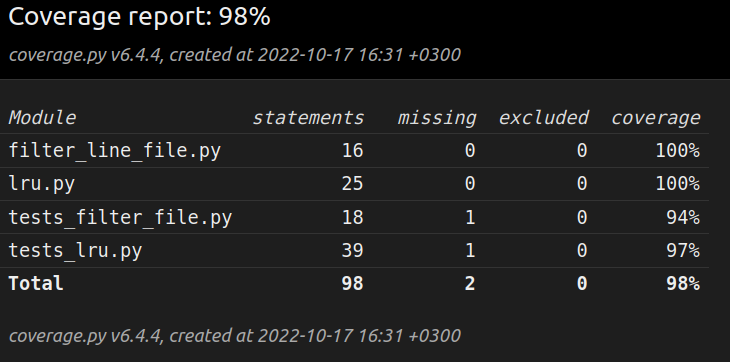
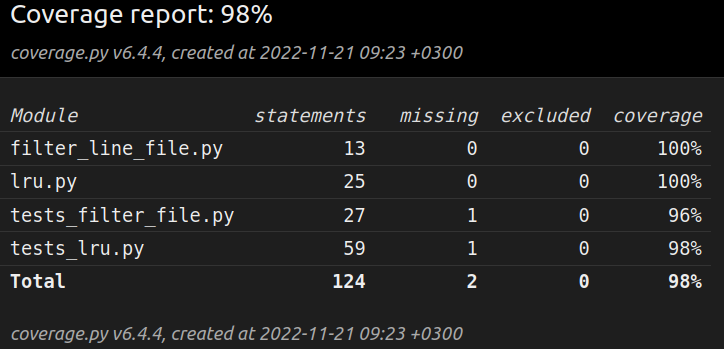
Update HW5

diff --git a/05/tests_filter_file.py b/05/tests_filter_file.py
@@ -10,7 +10,8 @@ class TestFilterFile(unittest.TestCase):
 
         find_sentenses = filter_file("foo.txt", ["Ваня"])
 
-        self.assertEqual(find_sentenses, [])
+        with self.assertRaises(Exception):
+            next(find_sentenses)
 
     def test_correct_find(self):
 
@@ -29,19 +30,31 @@ class TestFilterFile(unittest.TestCase):
                "Shout out to everyone makin' my beats you helpin' me preach"
                ]
 
-        self.assertEqual(find_sentenses, out)
+        for _, sentence in enumerate(out):
+            self.assertEqual(next(find_sentenses), sentence)
 
     def test_non_full_words(self):
 
         find_sentenses = filter_file("foo.txt", ["wai", "talk"])
 
-        self.assertEqual(find_sentenses, [])
+        with self.assertRaises(Exception):
+            next(find_sentenses)
 
     def test_non_file(self):
 
         find_sentenses = filter_file("fake_file.txt", ["wai", "talk"])
 
-        self.assertEqual(find_sentenses, "There is no file 'fake_file.txt'")
+        self.assertEqual(next(find_sentenses),
+                         "There is no file 'fake_file.txt'")
+
+    def test_single_capacity(self):
+
+        find_sentenses = filter_file("foo.txt", ["wAiTing"])
+        out_sentence = "The Earth's in rotation you're waiting for me"
+
+        self.assertEqual(next(find_sentenses), out_sentence)
+        with self.assertRaises(Exception):
+            next(find_sentenses)
 
 
 if __name__ == "__main__":

diff --git a/05/tests_lru.py b/05/tests_lru.py
@@ -59,6 +59,38 @@ class TestLRUCache(unittest.TestCase):
         self.assertEqual(cache.get("k1"), "val1")
         self.assertEqual(cache.get("k2"), "val4")
 
+    def test_like_in_example(self):
+
+        cache = LRUCache(2)
+
+        cache.set("k1", "val1")
+        cache.set("k2", "val2")
+
+        self.assertEqual(cache.get("k3"), None)
+        self.assertEqual(cache.get("k2"), "val2")
+        self.assertEqual(cache.get("k1"), "val1")
+
+        cache.set("k3", "val3")
+
+        self.assertEqual(cache.get("k3"), "val3")
+        self.assertEqual(cache.get("k2"), None)
+        self.assertEqual(cache.get("k1"), "val1")
+
+    def test_change_val_by_key(self):
+
+        cache = LRUCache(2)
+
+        cache.set("k1", "val1")
+        cache.set("k2", "val2")
+
+        self.assertEqual(cache.get("k1"), "val1")
+        self.assertEqual(cache.get("k2"), "val2")
+
+        cache.set("k2", "val2_new")
+
+        self.assertEqual(cache.get("k1"), "val1")
+        self.assertEqual(cache.get("k2"), "val2_new")
+
 
 if __name__ == "__main__":
 

diff --git a/05/filter_line_file.py b/05/filter_line_file.py
@@ -9,18 +9,15 @@ def filter_file(filename, word_list):
     """
     try:
         with open(filename, "r", encoding='utf-8') as file:
-            right_line = []
             lower_word_list = " ".join(word_list).lower().split()
             while True:
                 file_line = file.readline().replace("\n", "")
                 if file_line:
                     lower_file_line = file_line.lower().split()
                     if set(lower_word_list) & set(lower_file_line):
-                        right_line.append(file_line)
+                        yield file_line
                 else:
                     break
 
-            file.close()
-            return right_line
     except FileNotFoundError:
-        return f"There is no file '{filename}'"
+        yield f"There is no file '{filename}'"
